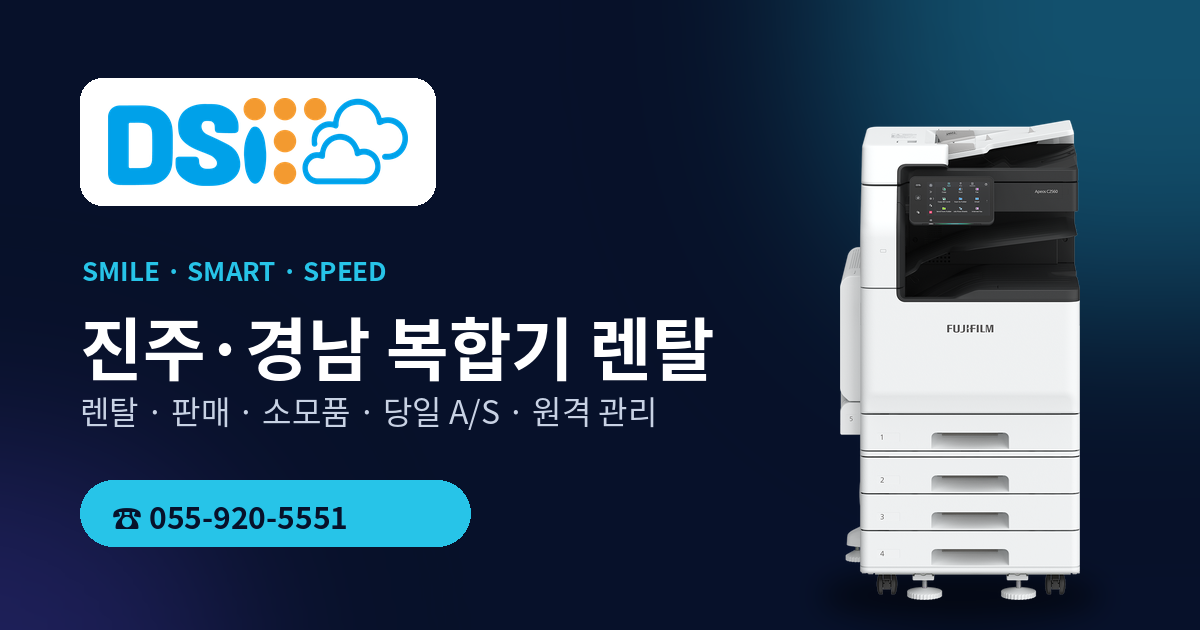
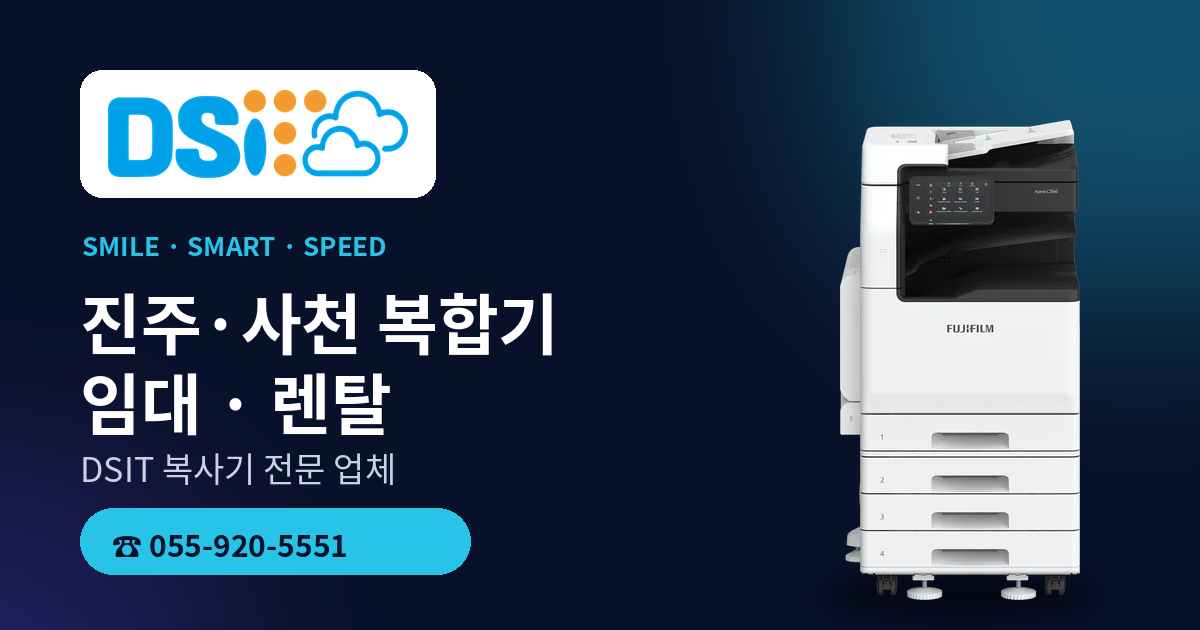
Add files via upload

Changed region(s): [[0.0617, 0.3619, 0.6167, 0.6937], [0.0617, 0.7238, 0.4008, 0.9349], [0.0617, 0.0905, 0.37, 0.3317]]

diff --git a/index.html b/index.html
@@ -3,7 +3,7 @@
 <head>
 <meta charset="utf-8">
 <meta name="viewport" content="width=device-width, initial-scale=1, viewport-fit=cover">
-<title>진주·경남 복합기 렌탈 | DSIT 디에스아이티</title>
+<title>진주·사천 복합기 임대 렌탈 DSIT 복사기 전문 업체</title>
 <link rel="icon" type="image/png" href="images/favicon.png">
 <link rel="canonical" href="https://www.dsit1.com/">
 <meta property="og:url" content="https://www.dsit1.com/">
@@ -17,7 +17,7 @@
 <script type="application/ld+json">{"@context":"https://schema.org","@type":"LocalBusiness","name":"DSIT 디에스아이티","url":"https://www.dsit1.com/","image":"https://www.dsit1.com/og-image.png","description":"진주·경남 사무용 복합기 렌탈·판매·A/S·원격 관리","telephone":"+82-55-920-5551","email":"dsit2024@naver.com","address":{"@type":"PostalAddress","streetAddress":"충무공동69-3 윙스타워B동 1410호","addressLocality":"진주시","addressRegion":"경상남도","addressCountry":"KR"},"areaServed":"경상남도","openingHours":"Mo-Fr 09:00-18:00"}</script>
 <meta property="og:type" content="website">
 <meta property="og:site_name" content="디에스아이티(DSIT)">
-<meta property="og:title" content="진주·경남 복합기 렌탈 | DSIT 디에스아이티">
+<meta property="og:title" content="진주·사천 복합기 임대 렌탈 DSIT 복사기 전문 업체">
 <meta property="og:description" content="진주·경남 지역 사무용 복합기 렌탈, 판매, 소모품, 당일 방문 A/S(오전 접수 시), 원격 관리를 한 곳에서 제공합니다.">
 <meta name="description" content="디에스아이티(DSIT)는 진주·경남 지역 사무용 복합기 렌탈, 판매, 소모품, 당일 방문 A/S(오전 접수 시), 원격 관리를 한 곳에서 제공합니다.">
 <link rel="preconnect" href="https://fonts.googleapis.com">
@@ -543,7 +543,7 @@ footer{background:var(--navy);color:rgba(255,255,255,.6);padding:56px 0 64px;fon
 
     <div class="stats">
       <div class="stat"><b>경남전역</b><span>서비스 지역</span></div>
-      <div class="stat"><b>300<sup>+</sup></b><span>관리 중인 장비</span></div>
+      <div class="stat"><b>500<sup>+</sup></b><span>관리 중인 장비</span></div>
       <div class="stat"><b>당일</b><span>방문 A/S (오전 접수 시)</span></div>
     </div>
   </div>
@@ -808,12 +808,12 @@ footer{background:var(--navy);color:rgba(255,255,255,.6);padding:56px 0 64px;fon
 
     <div class="dash glass" role="img" aria-label="원격 관리 화면 예시: 장비별 토너 잔량과 상태">
       <div class="dash-top">
-        <div><strong>원격 관리 현황</strong><div class="dash-sub">진주·경남 관리 거래처 329대</div></div>
+        <div><strong>원격 관리 현황</strong><div class="dash-sub">진주·경남 관리 거래처 512대</div></div>
       </div>
       <div class="dash-sum">
-        <div><small>연결된 장비</small><b>329<i>대</i></b></div>
-        <div><small>정상</small><b style="color:#6FEBAE">301</b></div>
-        <div><small>확인 필요</small><b style="color:#F5D267">28</b></div>
+        <div><small>연결된 장비</small><b>512<i>대</i></b></div>
+        <div><small>정상</small><b style="color:#6FEBAE">468</b></div>
+        <div><small>확인 필요</small><b style="color:#F5D267">44</b></div>
       </div>
 
       <div class="dash-table">
@@ -853,7 +853,7 @@ footer{background:var(--navy);color:rgba(255,255,255,.6);padding:56px 0 64px;fon
         <div class="clients"><span>관공서</span><span>학원</span><span>공동주택 관리사무소</span><span>건축사무소</span><span>일반 사무실</span><span>개인사무실</span><span>행사현장</span></div>
       </div>
       <div class="trust-nums">
-        <div><b>300<sup>+</sup></b><span>관리 중인 장비</span></div>
+        <div><b>500<sup>+</sup></b><span>관리 중인 장비</span></div>
         <div><b>경남전역</b><span>서비스 지역</span></div>
       </div>
     </div>
